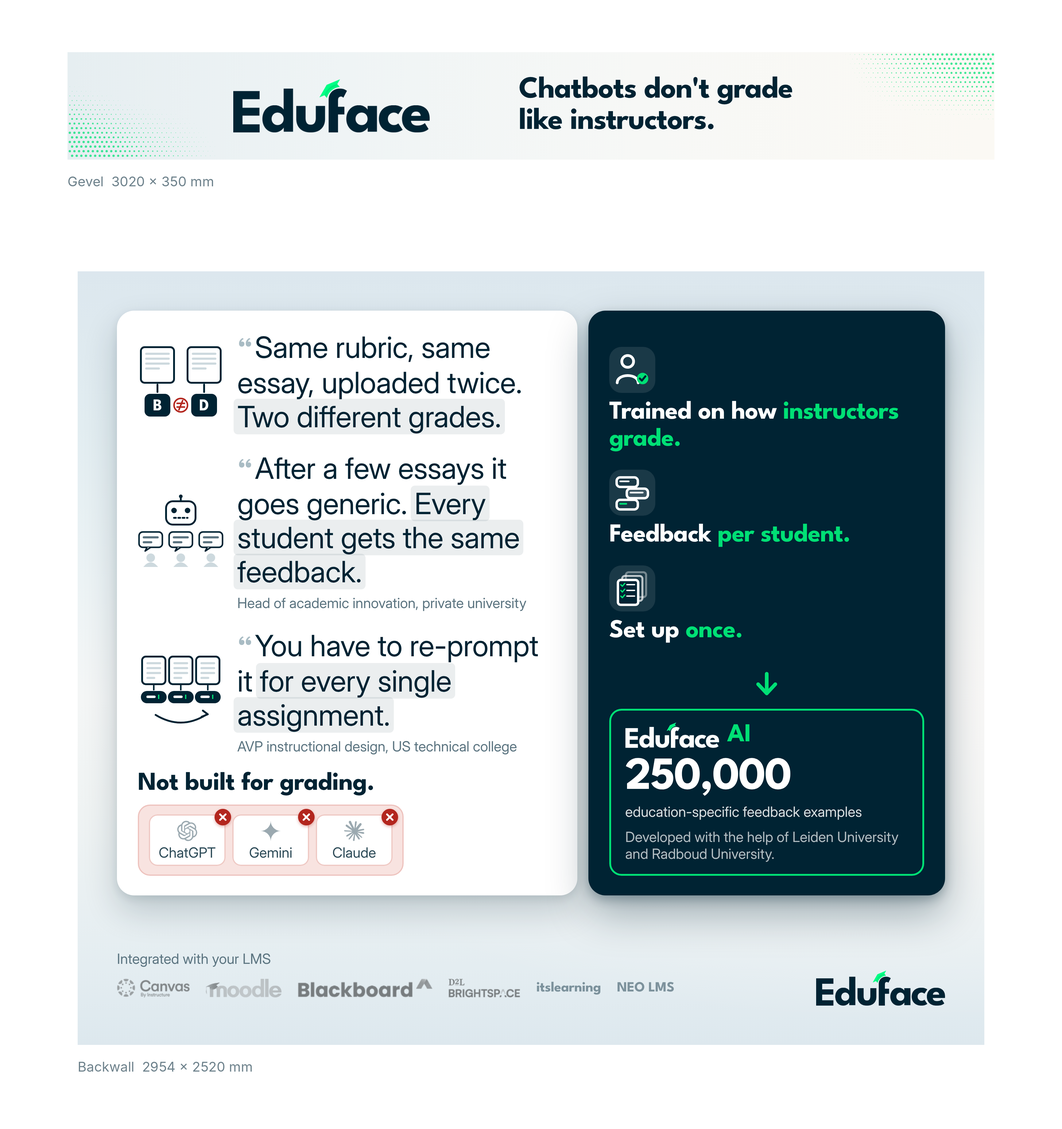
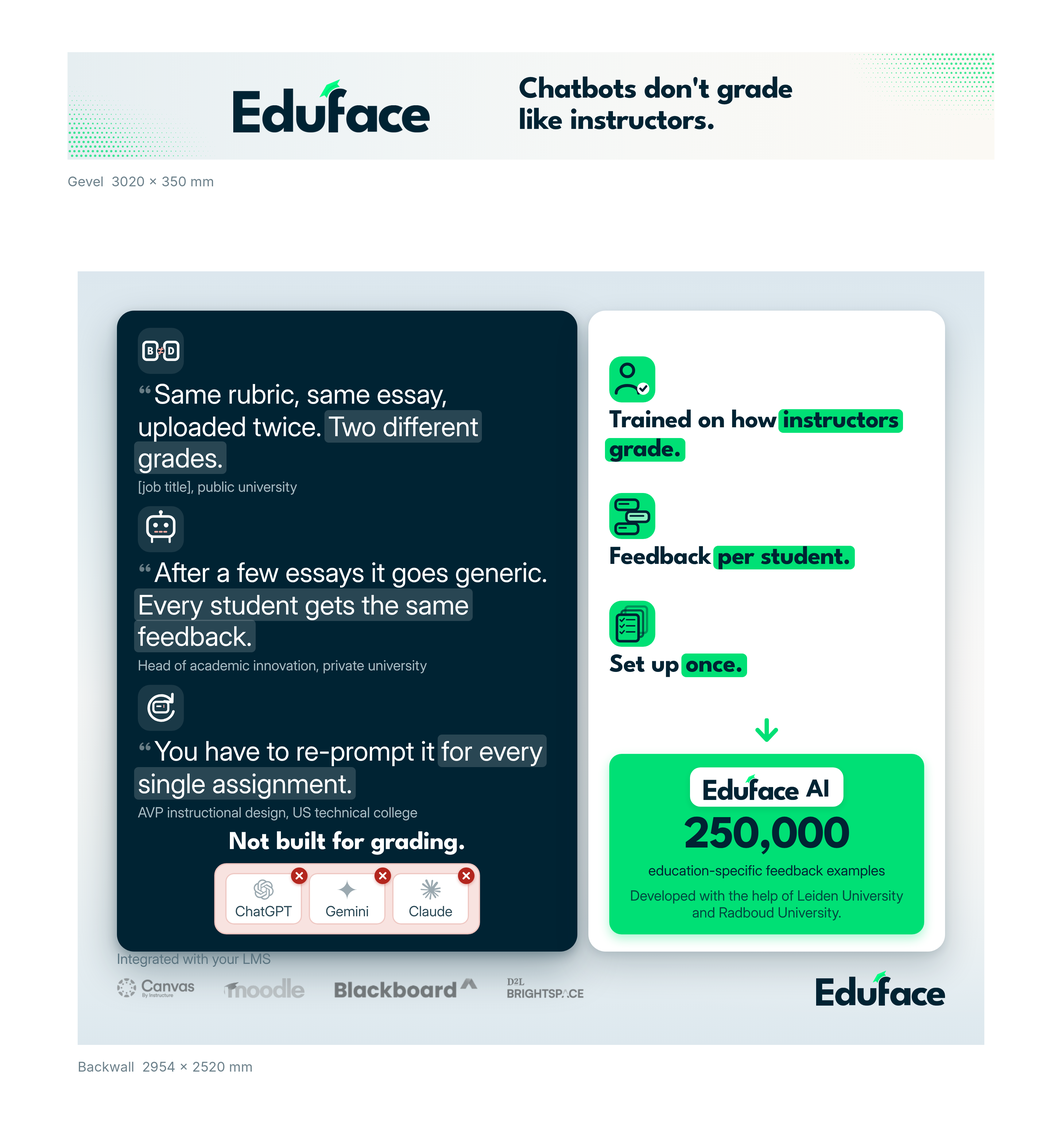
Backwall: donker links met iconen, wit en groen rechts, Eduface AI met 250.000; quote 1 uit public university
Claude-Session: https://claude.ai/code/session_011t24oRcD5DFuXzKigdVhtb

diff --git a/creatives/beurs-backwall/backwall.html b/creatives/beurs-backwall/backwall.html
@@ -5,7 +5,8 @@
 <title>Beurs backwall</title>
 <style>
   /* Canvas: 1 px = 1 mm. Wand 2954 x 2520 mm. De kop staat op de gevel (facade.html).
-     Lettersysteem: L 96 Inter (quotes) / M 84 League Spartan (koppen) / S 46 Inter (bronnen, labels) / XL 150 Spartan (alleen het getal). */
+     Links donker (het probleem), rechts wit met veel groen (de oplossing).
+     Lettersysteem: L 88 Inter (quotes) / M 84 League Spartan (koppen) / S 46 Inter (bronnen, labels) / XL 150 Spartan (alleen het getal). */
   @font-face { font-family: "League Spartan"; font-weight: 700; src: url("../../Design/Merk/fonts/LeagueSpartan-Bold.ttf"); }
   @font-face { font-family: "Inter"; font-weight: 400; src: url("../../Design/Merk/fonts/Inter-Regular.ttf"); }
   :root { --w: 2954px; --h: 2520px; --navy: #002333; --gd: #007b54; --g: #00e075; --i7: #2c4a57; --i5: #5b7480; --i3: #a9bcc4; --i2: #cdd9de; --i50: #f3f7f8; --red: #b3261e; }
@@ -20,43 +21,43 @@
   .logo { position: absolute; right: 128px; bottom: 128px; width: 420px; height: auto; }
   .row { position: absolute; left: 128px; top: 128px; width: 2698px; display: flex; gap: 36px; align-items: stretch; }
 
-  /* links: quotes met beeld. Rood alleen, en licht, in het kleine tool-vak. */
-  .q { width: 1500px; background: #fff; border-radius: 56px; padding: 64px 68px; display: flex; flex-direction: column; justify-content: space-between; gap: 52px;
-       box-shadow: 0 10px 28px rgba(0,35,51,.10), 0 50px 110px rgba(0,35,51,.20); }
-  .qs { display: flex; flex-direction: column; gap: 56px; }
-  .qone { display: flex; gap: 44px; align-items: center; }
-  .vis { flex: none; width: 280px; height: 240px; }
-  .qt { font: 400 96px/1.16 Inter; color: var(--navy); letter-spacing: -.005em; }
-  .qt .qm { font: 700 96px/1 "League Spartan"; color: var(--i3); margin-right: 8px; }
-  .qt mark { background: rgba(0,35,51,.08); color: inherit; padding: 0 12px; margin: 0 -12px; border-radius: 14px; -webkit-box-decoration-break: clone; box-decoration-break: clone; }
-  .who { font: 400 46px/1.2 Inter; color: var(--i5); margin-top: 18px; }
+  /* links: donker. Icoon boven, quote eronder, precies zoals rechts. */
+  .q { width: 1500px; background: var(--navy); color: #fff; border-radius: 56px; padding: 56px 68px; display: flex; flex-direction: column; justify-content: space-between; gap: 30px;
+       box-shadow: 0 14px 34px rgba(0,35,51,.28), 0 60px 130px rgba(0,35,51,.34); }
+  .qs { display: flex; flex-direction: column; gap: 36px; }
+  .it { width: 150px; height: 150px; border-radius: 40px; display: flex; align-items: center; justify-content: center; margin-bottom: 14px; }
+  .q .it { background: rgba(255,255,255,.1); }
+  .qt { font: 400 88px/1.16 Inter; color: #fff; letter-spacing: -.005em; }
+  .qt .qm { font: 700 88px/1 "League Spartan"; color: rgba(255,255,255,.4); margin-right: 8px; }
+  .qt mark { background: rgba(255,255,255,.16); color: inherit; padding: 0 12px; margin: 0 -12px; border-radius: 14px; -webkit-box-decoration-break: clone; box-decoration-break: clone; }
+  .who { font: 400 46px/1.2 Inter; color: var(--i3); margin-top: 16px; }
 
-  .tools .lab { font: 700 84px/1 "League Spartan"; letter-spacing: -.01em; color: var(--navy); margin-bottom: 26px; }
+  .tools { text-align: center; }
+  .tools .lab { font: 700 84px/1 "League Spartan"; letter-spacing: -.01em; color: #fff; margin-bottom: 24px; }
   .redbox { display: inline-flex; gap: 22px; background: #f8e3e0; border: 4px solid #eec3be; border-radius: 40px; padding: 28px 32px; }
   .tl { position: relative; width: 250px; height: 168px; border-radius: 28px; background: #fff; box-shadow: inset 0 0 0 4px #efc9c4;
         display: flex; flex-direction: column; align-items: center; justify-content: center; gap: 14px; font: 400 46px/1 Inter; color: var(--i7); }
   .tl img { width: 66px; height: 66px; opacity: .85; }
   .x { position: absolute; top: -18px; right: -18px; width: 54px; height: 54px; border-radius: 50%; background: var(--red); box-shadow: 0 4px 10px rgba(179,38,30,.35); }
 
-  /* rechts: Eduface. Icoon boven, tekst eronder. */
-  .e { width: 1162px; background: var(--navy); color: #fff; border-radius: 56px; padding: 64px 68px; display: flex; flex-direction: column; gap: 36px;
-       box-shadow: 0 14px 34px rgba(0,35,51,.28), 0 60px 130px rgba(0,35,51,.34); }
+  /* rechts: wit, veel groen. */
+  .e { width: 1162px; background: #fff; color: var(--navy); border-radius: 56px; padding: 56px 68px; display: flex; flex-direction: column; gap: 32px;
+       box-shadow: 0 10px 28px rgba(0,35,51,.10), 0 50px 110px rgba(0,35,51,.20); }
   .es { flex: 1; display: flex; flex-direction: column; justify-content: space-evenly; }
-  .eb .it { width: 150px; height: 150px; border-radius: 40px; background: rgba(255,255,255,.1); display: flex; align-items: center; justify-content: center; margin-bottom: 20px; }
-  .eh { font: 700 84px/1.04 "League Spartan"; letter-spacing: -.015em; }
-  .eh span { color: var(--g); }
-  .arrow { align-self: center; margin: 0; }
-  .own { margin-top: auto; border-radius: 40px; box-shadow: inset 0 0 0 6px var(--g); padding: 44px 52px; }
-  .own .top { display: flex; align-items: center; gap: 26px; }
+  .e .it { background: var(--g); }
+  .eh { font: 700 84px/1.12 "League Spartan"; letter-spacing: -.015em; }
+  .eh span { background: var(--g); padding: 0 14px; margin: 0 -14px; border-radius: 16px; -webkit-box-decoration-break: clone; box-decoration-break: clone; }
+  .arrow { align-self: center; }
+  .own { margin-top: auto; border-radius: 40px; background: var(--g); padding: 44px 52px; text-align: center; box-shadow: 0 14px 34px rgba(0,224,117,.32); }
+  .own .top { display: inline-flex; align-items: flex-end; justify-content: center; gap: 24px; background: #fff; border-radius: 34px; padding: 22px 44px 22px; box-shadow: 0 8px 20px rgba(0,35,51,.12); }
   .own .top img { height: 84px; width: auto; }
-  .own .top .ai { font: 700 84px/1 "League Spartan"; color: var(--g); letter-spacing: -.01em; }
-  .own .n { font: 700 150px/1 "League Spartan"; letter-spacing: -.025em; margin-top: 22px; }
-  .own .l { font: 400 46px/1.2 Inter; color: rgba(255,255,255,.85); margin-top: 8px; }
-  .own .d { font: 400 46px/1.2 Inter; color: rgba(255,255,255,.7); margin-top: 26px; }
+  .own .top .ai { font: 700 84px/.74 "League Spartan"; color: var(--navy); letter-spacing: -.01em; padding-bottom: 0; }
+  .own .n { font: 700 150px/1 "League Spartan"; letter-spacing: -.025em; margin-top: 22px; color: var(--navy); }
+  .own .l { font: 400 46px/1.2 Inter; color: var(--navy); margin-top: 8px; }
+  .own .d { font: 400 46px/1.2 Inter; color: rgba(0,35,51,.8); margin-top: 26px; }
 
-  .lms { position: absolute; left: 128px; top: 2278px; height: 114px; display: flex; align-items: center; gap: 52px; }
-  .lms img { height: 62px; width: auto; filter: grayscale(1) contrast(.9); opacity: .5; }
-  .lms .wm { font: 700 46px/1 "League Spartan"; letter-spacing: -.01em; color: var(--i5); opacity: .75; white-space: nowrap; }
+  .lms { position: absolute; left: 128px; top: 2278px; height: 114px; display: flex; align-items: center; gap: 96px; }
+  .lms img { height: 66px; width: auto; filter: grayscale(1) contrast(.9); opacity: .5; }
   .lms .lab { position: absolute; left: 0; top: -62px; font: 400 46px/1 Inter; color: var(--i5); white-space: nowrap; }
 </style>
 </head>
@@ -67,52 +68,48 @@
   </div>
 
 <script>
-const N='#002333', G='#00e075', W='#fff', I2='#cdd9de', I5='#5b7480', RED='#b3261e';
+const N='#002333', G='#00e075', W='#fff', PINK='#f1a9a1';
 const L=(f)=>`assets/logos/${f}.svg`;
-const sv=(inner,s=120)=>`<svg width="${s}" height="${s}" viewBox="0 0 400 400">${inner}</svg>`;
+const sv=(inner,s=128)=>`<svg width="${s}" height="${s}" viewBox="0 0 400 400">${inner}</svg>`;
 
-/* ---- beelden bij de quotes (280 x 240) ---- */
-const lines=(x,y,w,n,c=I2)=>Array.from({length:n},(_,i)=>`<rect x="${x}" y="${y+i*16}" width="${i===n-1?w*.6:w}" height="7" rx="3.5" fill="${c}"/>`).join('');
-const sheet=(x,y,w,h)=>`<rect x="${x}" y="${y}" width="${w}" height="${h}" rx="12" fill="#fff" stroke="${N}" stroke-width="6"/>${lines(x+14,y+18,w-28,4)}`;
-// 1. Dezelfde opdracht twee keer, twee verschillende cijfers
-const vis1=`<svg class="vis" viewBox="0 0 280 240">${sheet(10,6,108,116)}${sheet(162,6,108,116)}
-  <path d="M64,128 V152" stroke="${N}" stroke-width="6" stroke-linecap="round"/><path d="M216,128 V152" stroke="${N}" stroke-width="6" stroke-linecap="round"/>
-  <rect x="22" y="158" width="84" height="74" rx="18" fill="${N}"/><text x="64" y="212" text-anchor="middle" font-family="League Spartan" font-weight="700" font-size="54" fill="#fff">B</text>
-  <rect x="174" y="158" width="84" height="74" rx="18" fill="${N}"/><text x="216" y="212" text-anchor="middle" font-family="League Spartan" font-weight="700" font-size="54" fill="#fff">D</text>
-  <circle cx="140" cy="195" r="22" fill="#fff" stroke="${RED}" stroke-width="5"/><path d="M128,189 H152 M128,201 H152 M146,180 L134,210" stroke="${RED}" stroke-width="5" stroke-linecap="round"/></svg>`;
-// 2. Robot: dezelfde generieke feedback voor iedere student
-const bub=(x)=>`<rect x="${x}" y="122" width="76" height="50" rx="12" fill="#fff" stroke="${N}" stroke-width="5"/>${lines(x+12,136,52,2,I5)}<path d="M${x+26},172 l-6,12 l18,-12" fill="#fff" stroke="${N}" stroke-width="5" stroke-linejoin="round"/><circle cx="${x+38}" cy="206" r="14" fill="${I2}"/><path d="M${x+14},236 q24,-30 48,0" fill="${I2}"/>`;
-const vis2=`<svg class="vis" viewBox="0 0 280 240"><line x1="140" y1="4" x2="140" y2="20" stroke="${N}" stroke-width="6" stroke-linecap="round"/><circle cx="140" cy="6" r="6" fill="${N}"/>
-  <rect x="92" y="22" width="96" height="76" rx="22" fill="#fff" stroke="${N}" stroke-width="6"/><circle cx="118" cy="52" r="9" fill="${N}"/><circle cx="162" cy="52" r="9" fill="${N}"/><path d="M118,76 H162" stroke="${N}" stroke-width="6" stroke-linecap="round" stroke-dasharray="6 8"/>
-  ${bub(4)}${bub(102)}${bub(200)}</svg>`;
-// 3. Elke opdracht opnieuw promoten
-const pr=(x)=>`${sheet(x,6,76,90)}<path d="M${x+38},100 V114" stroke="${N}" stroke-width="5" stroke-linecap="round"/><rect x="${x-4}" y="118" width="84" height="40" rx="20" fill="${N}"/><rect x="${x+14}" y="133" width="30" height="8" rx="4" fill="${W}"/><rect x="${x+52}" y="130" width="4" height="14" fill="${G}"/>`;
-const vis3=`<svg class="vis" viewBox="0 0 280 240">${pr(14)}${pr(102)}${pr(190)}
-  <path d="M58,196 q82,50 164,0" fill="none" stroke="${N}" stroke-width="6" stroke-linecap="round"/><path d="M212,182 l16,12 l-20,8" fill="none" stroke="${N}" stroke-width="6" stroke-linecap="round" stroke-linejoin="round"/></svg>`;
+/* ---- iconen links (wit op donker, lichtrode accenten): het probleem ---- */
+// 1. twee verschillende cijfers voor dezelfde opdracht
+const icGrades=sv(`<rect x="24" y="110" width="140" height="180" rx="34" fill="none" stroke="${W}" stroke-width="26"/><text x="94" y="236" text-anchor="middle" font-family="League Spartan" font-weight="700" font-size="116" fill="${W}">B</text>
+  <rect x="236" y="110" width="140" height="180" rx="34" fill="none" stroke="${W}" stroke-width="26"/><text x="306" y="236" text-anchor="middle" font-family="League Spartan" font-weight="700" font-size="116" fill="${W}">D</text>
+  <circle cx="200" cy="200" r="38" fill="${N}"/><path d="M178,184 H222 M178,216 H222" stroke="${PINK}" stroke-width="13" stroke-linecap="round"/><path d="M212,166 L188,234" stroke="${PINK}" stroke-width="13" stroke-linecap="round"/>`);
+// 2. robot: generiek, dezelfde feedback
+const icRobot=sv(`<line x1="200" y1="20" x2="200" y2="70" stroke="${W}" stroke-width="22" stroke-linecap="round"/><circle cx="200" cy="26" r="20" fill="${W}"/>
+  <rect x="64" y="70" width="272" height="206" rx="60" fill="none" stroke="${W}" stroke-width="26"/><circle cx="146" cy="158" r="24" fill="${W}"/><circle cx="254" cy="158" r="24" fill="${W}"/><path d="M142,226 H258" stroke="${PINK}" stroke-width="18" stroke-linecap="round" stroke-dasharray="22 24"/>
+  <path d="M110,276 V330 M290,276 V330" stroke="${W}" stroke-width="22" stroke-linecap="round"/>`);
+// 3. elke keer opnieuw promoten
+const icRepeat=sv(`<path d="M312,132 A128,128 0 1 0 328,236" fill="none" stroke="${W}" stroke-width="26" stroke-linecap="round"/><polyline points="318,60 316,142 236,134" fill="none" stroke="${W}" stroke-width="26" stroke-linecap="round" stroke-linejoin="round"/>
+  <rect x="124" y="138" width="152" height="108" rx="30" fill="none" stroke="${W}" stroke-width="22"/><rect x="154" y="176" width="52" height="16" rx="8" fill="${W}"/><rect x="226" y="168" width="10" height="32" fill="${PINK}"/>`);
+
+/* ---- iconen rechts (navy op groen): de oplossing ---- */
+const icTeacher=sv(`<circle cx="150" cy="108" r="64" fill="none" stroke="${N}" stroke-width="30"/><path d="M36,340 C36,236 264,236 264,340" fill="none" stroke="${N}" stroke-width="30" stroke-linecap="round"/><circle cx="312" cy="294" r="62" fill="${W}"/><polyline points="282,294 304,316 342,270" fill="none" stroke="${N}" stroke-width="22" stroke-linecap="round" stroke-linejoin="round"/>`);
+const icBubbles=sv(`<rect x="30" y="34" width="230" height="104" rx="38" fill="none" stroke="${N}" stroke-width="26"/><rect x="60" y="68" width="110" height="18" rx="9" fill="${N}"/><rect x="140" y="156" width="230" height="104" rx="38" fill="rgba(255,255,255,.55)" stroke="${N}" stroke-width="26"/><rect x="172" y="190" width="150" height="18" rx="9" fill="${N}"/><rect x="30" y="278" width="230" height="104" rx="38" fill="none" stroke="${N}" stroke-width="26"/><rect x="60" y="312" width="84" height="18" rx="9" fill="${N}"/>`);
+const icSheets=sv(`<rect x="130" y="24" width="220" height="270" rx="30" fill="none" stroke="${N}" stroke-width="22" opacity=".4"/><rect x="90" y="64" width="220" height="270" rx="30" fill="none" stroke="${N}" stroke-width="22" opacity=".7"/><rect x="44" y="108" width="220" height="270" rx="30" fill="${G}" stroke="${N}" stroke-width="26"/>${[160,222,284].map(y=>`<polyline points="76,${y} 92,${y+16} 118,${y-14}" fill="none" stroke="${N}" stroke-width="14" stroke-linecap="round" stroke-linejoin="round"/><rect x="134" y="${y-8}" width="98" height="14" rx="7" fill="${N}"/>`).join('')}`);
 
 /* ---- links ---- */
-const q=(vis,t,w)=>`<div class="qone">${vis}<div><div class="qt"><span class="qm">“</span>${t}</div>${w?`<div class="who">${w}</div>`:''}</div></div>`;
-const R1='Head of academic innovation, private university', R2='AVP instructional design, US technical college';
+const q=(ic,t,w)=>`<div class="qb"><div class="it">${ic}</div><div class="qt"><span class="qm">“</span>${t}</div>${w?`<div class="who">${w}</div>`:''}</div>`;
+const R0='[job title], public university', R1='Head of academic innovation, private university', R2='AVP instructional design, US technical college';
 const x=`<div class="x"><svg width="54" height="54" viewBox="0 0 54 54"><path d="M18,18 L36,36 M36,18 L18,36" stroke="#fff" stroke-width="6" stroke-linecap="round"/></svg></div>`;
 const tool=(img,name)=>`<div class="tl"><img src="${L(img)}">${name}${x}</div>`;
 const left=`<div class="q"><div class="qs">`+
-  q(vis1,'Same rubric, same essay, uploaded twice. <mark>Two different grades.</mark>','')+
-  q(vis2,'After a few essays it goes generic. <mark>Every student gets the same feedback.</mark>',R1)+
-  q(vis3,'You have to re-prompt it <mark>for every single assignment.</mark>',R2)+
+  q(icGrades,'Same rubric, same essay, uploaded twice. <mark>Two different grades.</mark>',R0)+
+  q(icRobot,'After a few essays it goes generic. <mark>Every student gets the same feedback.</mark>',R1)+
+  q(icRepeat,'You have to re-prompt it <mark>for every single assignment.</mark>',R2)+
   `</div><div class="tools"><div class="lab">Not built for grading.</div><div class="redbox">${tool('openai','ChatGPT')}${tool('googlegemini','Gemini')}${tool('claude','Claude')}</div></div></div>`;
 
 /* ---- rechts ---- */
-const icTeacher=sv(`<circle cx="150" cy="108" r="64" fill="none" stroke="${W}" stroke-width="30"/><path d="M36,340 C36,236 264,236 264,340" fill="none" stroke="${W}" stroke-width="30" stroke-linecap="round"/><circle cx="312" cy="294" r="62" fill="${G}"/><polyline points="282,294 304,316 342,270" fill="none" stroke="${N}" stroke-width="22" stroke-linecap="round" stroke-linejoin="round"/>`);
-const icBubbles=sv(`<rect x="30" y="34" width="230" height="104" rx="38" fill="none" stroke="${W}" stroke-width="26"/><rect x="60" y="68" width="110" height="18" rx="9" fill="${W}"/><rect x="140" y="156" width="230" height="104" rx="38" fill="rgba(255,255,255,.14)" stroke="${W}" stroke-width="26"/><rect x="172" y="190" width="150" height="18" rx="9" fill="${W}"/><rect x="30" y="278" width="230" height="104" rx="38" fill="none" stroke="${W}" stroke-width="26"/><rect x="60" y="312" width="84" height="18" rx="9" fill="${G}"/>`);
-const icSheets=sv(`<rect x="130" y="24" width="220" height="270" rx="30" fill="none" stroke="${W}" stroke-width="22" opacity=".4"/><rect x="90" y="64" width="220" height="270" rx="30" fill="none" stroke="${W}" stroke-width="22" opacity=".7"/><rect x="44" y="108" width="220" height="270" rx="30" fill="${N}" stroke="${W}" stroke-width="26"/>${[160,222,284].map(y=>`<polyline points="76,${y} 92,${y+16} 118,${y-14}" fill="none" stroke="${G}" stroke-width="14" stroke-linecap="round" stroke-linejoin="round"/><rect x="134" y="${y-8}" width="98" height="14" rx="7" fill="${W}"/>`).join('')}`);
 const EB=[{ic:icTeacher,h:'Trained on how <span>instructors grade.</span>'},{ic:icBubbles,h:'Feedback <span>per student.</span>'},{ic:icSheets,h:'Set up <span>once.</span>'}];
-const arrow=`<svg class="arrow" width="96" height="84" viewBox="0 0 96 84"><path d="M48,6 V62" stroke="${G}" stroke-width="12" stroke-linecap="round"/><polyline points="20,40 48,70 76,40" fill="none" stroke="${G}" stroke-width="12" stroke-linecap="round" stroke-linejoin="round"/></svg>`;
+const arrow=`<svg class="arrow" width="96" height="84" viewBox="0 0 96 84"><path d="M48,6 V62" stroke="${G}" stroke-width="14" stroke-linecap="round"/><polyline points="18,38 48,70 78,38" fill="none" stroke="${G}" stroke-width="14" stroke-linecap="round" stroke-linejoin="round"/></svg>`;
 const right=`<div class="e"><div class="es">`+EB.map(r=>`<div class="eb"><div class="it">${r.ic}</div><div class="eh">${r.h}</div></div>`).join('')+`</div>${arrow}
-  <div class="own"><div class="top"><img src="assets/logos/eduface-white.png"><div class="ai">AI</div></div>
+  <div class="own"><div class="top"><img src="../../Design/Merk/logos/logo_navy.png"><div class="ai">AI</div></div>
   <div class="n">250,000</div><div class="l">education-specific feedback examples</div>
   <div class="d">Developed with the help of Leiden University and Radboud University.</div></div></div>`;
 
-const lms=`<div class="lms"><div class="lab">Integrated with your LMS</div><img src="assets/logos/lms-canvas.png"><img src="assets/logos/lms-moodle.png"><img src="assets/logos/lms-blackboard.png"><img src="assets/logos/lms-brightspace.png"><div class="wm">itslearning</div><div class="wm">NEO LMS</div></div>`;
+const lms=`<div class="lms"><div class="lab">Integrated with your LMS</div><img src="assets/logos/lms-canvas.png"><img src="assets/logos/lms-moodle.png"><img src="assets/logos/lms-blackboard.png"><img src="assets/logos/lms-brightspace.png"></div>`;
 document.getElementById('layer-content').innerHTML = `<div class="row">${left}${right}</div>${lms}`;
 </script>
 </body>

diff --git a/creatives/beurs-backwall/backwall-beelden-bij-quotes-2026-11-25.html b/creatives/beurs-backwall/backwall-beelden-bij-quotes-2026-11-25.html
@@ -1,0 +1,119 @@
+<!doctype html>
+<html lang="en">
+<head>
+<meta charset="utf-8">
+<title>Beurs backwall</title>
+<style>
+  /* Canvas: 1 px = 1 mm. Wand 2954 x 2520 mm. De kop staat op de gevel (facade.html).
+     Lettersysteem: L 96 Inter (quotes) / M 84 League Spartan (koppen) / S 46 Inter (bronnen, labels) / XL 150 Spartan (alleen het getal). */
+  @font-face { font-family: "League Spartan"; font-weight: 700; src: url("../../Design/Merk/fonts/LeagueSpartan-Bold.ttf"); }
+  @font-face { font-family: "Inter"; font-weight: 400; src: url("../../Design/Merk/fonts/Inter-Regular.ttf"); }
+  :root { --w: 2954px; --h: 2520px; --navy: #002333; --gd: #007b54; --g: #00e075; --i7: #2c4a57; --i5: #5b7480; --i3: #a9bcc4; --i2: #cdd9de; --i50: #f3f7f8; --red: #b3261e; }
+  * { margin: 0; box-sizing: border-box; }
+  html, body { width: var(--w); height: var(--h); }
+  .wall {
+    position: relative; width: var(--w); height: var(--h); overflow: hidden; color: var(--navy);
+    background:
+      radial-gradient(ellipse 80% 45% at 90% 52%, #f9f8f7 0%, rgba(249,248,247,0) 100%),
+      linear-gradient(180deg, #dce7ee 0%, #e2edf1 20%, #ecf3f5 40%, #f4f6f6 55%, #eff3f3 70%, #e4edf1 90%, #dde8ee 100%);
+  }
+  .logo { position: absolute; right: 128px; bottom: 128px; width: 420px; height: auto; }
+  .row { position: absolute; left: 128px; top: 128px; width: 2698px; display: flex; gap: 36px; align-items: stretch; }
+
+  /* links: quotes met beeld. Rood alleen, en licht, in het kleine tool-vak. */
+  .q { width: 1500px; background: #fff; border-radius: 56px; padding: 64px 68px; display: flex; flex-direction: column; justify-content: space-between; gap: 52px;
+       box-shadow: 0 10px 28px rgba(0,35,51,.10), 0 50px 110px rgba(0,35,51,.20); }
+  .qs { display: flex; flex-direction: column; gap: 56px; }
+  .qone { display: flex; gap: 44px; align-items: center; }
+  .vis { flex: none; width: 280px; height: 240px; }
+  .qt { font: 400 96px/1.16 Inter; color: var(--navy); letter-spacing: -.005em; }
+  .qt .qm { font: 700 96px/1 "League Spartan"; color: var(--i3); margin-right: 8px; }
+  .qt mark { background: rgba(0,35,51,.08); color: inherit; padding: 0 12px; margin: 0 -12px; border-radius: 14px; -webkit-box-decoration-break: clone; box-decoration-break: clone; }
+  .who { font: 400 46px/1.2 Inter; color: var(--i5); margin-top: 18px; }
+
+  .tools .lab { font: 700 84px/1 "League Spartan"; letter-spacing: -.01em; color: var(--navy); margin-bottom: 26px; }
+  .redbox { display: inline-flex; gap: 22px; background: #f8e3e0; border: 4px solid #eec3be; border-radius: 40px; padding: 28px 32px; }
+  .tl { position: relative; width: 250px; height: 168px; border-radius: 28px; background: #fff; box-shadow: inset 0 0 0 4px #efc9c4;
+        display: flex; flex-direction: column; align-items: center; justify-content: center; gap: 14px; font: 400 46px/1 Inter; color: var(--i7); }
+  .tl img { width: 66px; height: 66px; opacity: .85; }
+  .x { position: absolute; top: -18px; right: -18px; width: 54px; height: 54px; border-radius: 50%; background: var(--red); box-shadow: 0 4px 10px rgba(179,38,30,.35); }
+
+  /* rechts: Eduface. Icoon boven, tekst eronder. */
+  .e { width: 1162px; background: var(--navy); color: #fff; border-radius: 56px; padding: 64px 68px; display: flex; flex-direction: column; gap: 36px;
+       box-shadow: 0 14px 34px rgba(0,35,51,.28), 0 60px 130px rgba(0,35,51,.34); }
+  .es { flex: 1; display: flex; flex-direction: column; justify-content: space-evenly; }
+  .eb .it { width: 150px; height: 150px; border-radius: 40px; background: rgba(255,255,255,.1); display: flex; align-items: center; justify-content: center; margin-bottom: 20px; }
+  .eh { font: 700 84px/1.04 "League Spartan"; letter-spacing: -.015em; }
+  .eh span { color: var(--g); }
+  .arrow { align-self: center; margin: 0; }
+  .own { margin-top: auto; border-radius: 40px; box-shadow: inset 0 0 0 6px var(--g); padding: 44px 52px; }
+  .own .top { display: flex; align-items: center; gap: 26px; }
+  .own .top img { height: 84px; width: auto; }
+  .own .top .ai { font: 700 84px/1 "League Spartan"; color: var(--g); letter-spacing: -.01em; }
+  .own .n { font: 700 150px/1 "League Spartan"; letter-spacing: -.025em; margin-top: 22px; }
+  .own .l { font: 400 46px/1.2 Inter; color: rgba(255,255,255,.85); margin-top: 8px; }
+  .own .d { font: 400 46px/1.2 Inter; color: rgba(255,255,255,.7); margin-top: 26px; }
+
+  .lms { position: absolute; left: 128px; top: 2278px; height: 114px; display: flex; align-items: center; gap: 52px; }
+  .lms img { height: 62px; width: auto; filter: grayscale(1) contrast(.9); opacity: .5; }
+  .lms .wm { font: 700 46px/1 "League Spartan"; letter-spacing: -.01em; color: var(--i5); opacity: .75; white-space: nowrap; }
+  .lms .lab { position: absolute; left: 0; top: -62px; font: 400 46px/1 Inter; color: var(--i5); white-space: nowrap; }
+</style>
+</head>
+<body>
+  <div class="wall" id="wall">
+    <div id="layer-content"></div>
+    <img class="logo" src="../../Design/Merk/logos/logo_navy.png" alt="Eduface">
+  </div>
+
+<script>
+const N='#002333', G='#00e075', W='#fff', I2='#cdd9de', I5='#5b7480', RED='#b3261e';
+const L=(f)=>`assets/logos/${f}.svg`;
+const sv=(inner,s=120)=>`<svg width="${s}" height="${s}" viewBox="0 0 400 400">${inner}</svg>`;
+
+/* ---- beelden bij de quotes (280 x 240) ---- */
+const lines=(x,y,w,n,c=I2)=>Array.from({length:n},(_,i)=>`<rect x="${x}" y="${y+i*16}" width="${i===n-1?w*.6:w}" height="7" rx="3.5" fill="${c}"/>`).join('');
+const sheet=(x,y,w,h)=>`<rect x="${x}" y="${y}" width="${w}" height="${h}" rx="12" fill="#fff" stroke="${N}" stroke-width="6"/>${lines(x+14,y+18,w-28,4)}`;
+// 1. Dezelfde opdracht twee keer, twee verschillende cijfers
+const vis1=`<svg class="vis" viewBox="0 0 280 240">${sheet(10,6,108,116)}${sheet(162,6,108,116)}
+  <path d="M64,128 V152" stroke="${N}" stroke-width="6" stroke-linecap="round"/><path d="M216,128 V152" stroke="${N}" stroke-width="6" stroke-linecap="round"/>
+  <rect x="22" y="158" width="84" height="74" rx="18" fill="${N}"/><text x="64" y="212" text-anchor="middle" font-family="League Spartan" font-weight="700" font-size="54" fill="#fff">B</text>
+  <rect x="174" y="158" width="84" height="74" rx="18" fill="${N}"/><text x="216" y="212" text-anchor="middle" font-family="League Spartan" font-weight="700" font-size="54" fill="#fff">D</text>
+  <circle cx="140" cy="195" r="22" fill="#fff" stroke="${RED}" stroke-width="5"/><path d="M128,189 H152 M128,201 H152 M146,180 L134,210" stroke="${RED}" stroke-width="5" stroke-linecap="round"/></svg>`;
+// 2. Robot: dezelfde generieke feedback voor iedere student
+const bub=(x)=>`<rect x="${x}" y="122" width="76" height="50" rx="12" fill="#fff" stroke="${N}" stroke-width="5"/>${lines(x+12,136,52,2,I5)}<path d="M${x+26},172 l-6,12 l18,-12" fill="#fff" stroke="${N}" stroke-width="5" stroke-linejoin="round"/><circle cx="${x+38}" cy="206" r="14" fill="${I2}"/><path d="M${x+14},236 q24,-30 48,0" fill="${I2}"/>`;
+const vis2=`<svg class="vis" viewBox="0 0 280 240"><line x1="140" y1="4" x2="140" y2="20" stroke="${N}" stroke-width="6" stroke-linecap="round"/><circle cx="140" cy="6" r="6" fill="${N}"/>
+  <rect x="92" y="22" width="96" height="76" rx="22" fill="#fff" stroke="${N}" stroke-width="6"/><circle cx="118" cy="52" r="9" fill="${N}"/><circle cx="162" cy="52" r="9" fill="${N}"/><path d="M118,76 H162" stroke="${N}" stroke-width="6" stroke-linecap="round" stroke-dasharray="6 8"/>
+  ${bub(4)}${bub(102)}${bub(200)}</svg>`;
+// 3. Elke opdracht opnieuw promoten
+const pr=(x)=>`${sheet(x,6,76,90)}<path d="M${x+38},100 V114" stroke="${N}" stroke-width="5" stroke-linecap="round"/><rect x="${x-4}" y="118" width="84" height="40" rx="20" fill="${N}"/><rect x="${x+14}" y="133" width="30" height="8" rx="4" fill="${W}"/><rect x="${x+52}" y="130" width="4" height="14" fill="${G}"/>`;
+const vis3=`<svg class="vis" viewBox="0 0 280 240">${pr(14)}${pr(102)}${pr(190)}
+  <path d="M58,196 q82,50 164,0" fill="none" stroke="${N}" stroke-width="6" stroke-linecap="round"/><path d="M212,182 l16,12 l-20,8" fill="none" stroke="${N}" stroke-width="6" stroke-linecap="round" stroke-linejoin="round"/></svg>`;
+
+/* ---- links ---- */
+const q=(vis,t,w)=>`<div class="qone">${vis}<div><div class="qt"><span class="qm">“</span>${t}</div>${w?`<div class="who">${w}</div>`:''}</div></div>`;
+const R1='Head of academic innovation, private university', R2='AVP instructional design, US technical college';
+const x=`<div class="x"><svg width="54" height="54" viewBox="0 0 54 54"><path d="M18,18 L36,36 M36,18 L18,36" stroke="#fff" stroke-width="6" stroke-linecap="round"/></svg></div>`;
+const tool=(img,name)=>`<div class="tl"><img src="${L(img)}">${name}${x}</div>`;
+const left=`<div class="q"><div class="qs">`+
+  q(vis1,'Same rubric, same essay, uploaded twice. <mark>Two different grades.</mark>','')+
+  q(vis2,'After a few essays it goes generic. <mark>Every student gets the same feedback.</mark>',R1)+
+  q(vis3,'You have to re-prompt it <mark>for every single assignment.</mark>',R2)+
+  `</div><div class="tools"><div class="lab">Not built for grading.</div><div class="redbox">${tool('openai','ChatGPT')}${tool('googlegemini','Gemini')}${tool('claude','Claude')}</div></div></div>`;
+
+/* ---- rechts ---- */
+const icTeacher=sv(`<circle cx="150" cy="108" r="64" fill="none" stroke="${W}" stroke-width="30"/><path d="M36,340 C36,236 264,236 264,340" fill="none" stroke="${W}" stroke-width="30" stroke-linecap="round"/><circle cx="312" cy="294" r="62" fill="${G}"/><polyline points="282,294 304,316 342,270" fill="none" stroke="${N}" stroke-width="22" stroke-linecap="round" stroke-linejoin="round"/>`);
+const icBubbles=sv(`<rect x="30" y="34" width="230" height="104" rx="38" fill="none" stroke="${W}" stroke-width="26"/><rect x="60" y="68" width="110" height="18" rx="9" fill="${W}"/><rect x="140" y="156" width="230" height="104" rx="38" fill="rgba(255,255,255,.14)" stroke="${W}" stroke-width="26"/><rect x="172" y="190" width="150" height="18" rx="9" fill="${W}"/><rect x="30" y="278" width="230" height="104" rx="38" fill="none" stroke="${W}" stroke-width="26"/><rect x="60" y="312" width="84" height="18" rx="9" fill="${G}"/>`);
+const icSheets=sv(`<rect x="130" y="24" width="220" height="270" rx="30" fill="none" stroke="${W}" stroke-width="22" opacity=".4"/><rect x="90" y="64" width="220" height="270" rx="30" fill="none" stroke="${W}" stroke-width="22" opacity=".7"/><rect x="44" y="108" width="220" height="270" rx="30" fill="${N}" stroke="${W}" stroke-width="26"/>${[160,222,284].map(y=>`<polyline points="76,${y} 92,${y+16} 118,${y-14}" fill="none" stroke="${G}" stroke-width="14" stroke-linecap="round" stroke-linejoin="round"/><rect x="134" y="${y-8}" width="98" height="14" rx="7" fill="${W}"/>`).join('')}`);
+const EB=[{ic:icTeacher,h:'Trained on how <span>instructors grade.</span>'},{ic:icBubbles,h:'Feedback <span>per student.</span>'},{ic:icSheets,h:'Set up <span>once.</span>'}];
+const arrow=`<svg class="arrow" width="96" height="84" viewBox="0 0 96 84"><path d="M48,6 V62" stroke="${G}" stroke-width="12" stroke-linecap="round"/><polyline points="20,40 48,70 76,40" fill="none" stroke="${G}" stroke-width="12" stroke-linecap="round" stroke-linejoin="round"/></svg>`;
+const right=`<div class="e"><div class="es">`+EB.map(r=>`<div class="eb"><div class="it">${r.ic}</div><div class="eh">${r.h}</div></div>`).join('')+`</div>${arrow}
+  <div class="own"><div class="top"><img src="assets/logos/eduface-white.png"><div class="ai">AI</div></div>
+  <div class="n">250,000</div><div class="l">education-specific feedback examples</div>
+  <div class="d">Developed with the help of Leiden University and Radboud University.</div></div></div>`;
+
+const lms=`<div class="lms"><div class="lab">Integrated with your LMS</div><img src="assets/logos/lms-canvas.png"><img src="assets/logos/lms-moodle.png"><img src="assets/logos/lms-blackboard.png"><img src="assets/logos/lms-brightspace.png"><div class="wm">itslearning</div><div class="wm">NEO LMS</div></div>`;
+document.getElementById('layer-content').innerHTML = `<div class="row">${left}${right}</div>${lms}`;
+</script>
+</body>
+</html>

diff --git a/Context/open-vragen.md b/Context/open-vragen.md
@@ -35,7 +35,7 @@ De enige plek waar openstaande vragen aan Dante staan. Een vraag die hier staat 
 | V12 | Continuïteit van het bedrijf zelf (financiering, team, exit- of escrowregeling) en het aantal getekende verwerkersovereenkomsten met Nederlandse instellingen. | Zelfde vragenlijst, vraag 9 en 12. | 02-10-2026 |
 | V15 | **Mogen de klantquotes (functie anoniem, zonder land) op de publieke beurswand?** Gaat om drie quotes uit de case study van 25-11-2026: Head of academic innovation (private university) twee keer, en AVP instructional design (US technical college) over ChatGPT-agents. | De wand toont de quotes **licht bewerkt voor correct Engels** (25-11-2026): leg de bewerkte versie aan hen voor, niet het origineel. Dante vroeg (25-11-2026) om een quote aan een "public university" en een andere functietitel te geven, zodat niet alle drie hetzelfde zijn. Dat is niet gedaan: het zijn echte bronnen en de herkomst mag niet veranderen. **Heb je een echte derde quote, bijvoorbeeld van de director of education in NL of van een public university?** Een klant citeren op een publieke wand vraagt toestemming, ook anoniem, want de functie plus het type instelling is herleidbaar. |  25-11-2026 |
 | V16 | **Mag "the only" erbij, en is "twee keer dezelfde opdracht, twee keer een ander cijfer" bij ChatGPT, Gemini en Claude een eigen test (wanneer, hoeveel runs)?** Beide staan nu niet op de wand. De wand houdt zich aan wat de case study onderbouwt. | "The only" is een superlatief die een bezoeker kan weerleggen. De consistentie-claim heeft een bron nodig voor hij erbij kan. | 25-11-2026 |
-| V17 | **Van wie is de nieuwe eerste quote?** "Such that you would upload the same rubric and the same writing assignment, and you would receive different grades." (Dante, 25-11-2026) Er staat nu geen bronregel onder. | Een quote op een publieke wand zonder functie en type instelling leest als verzonnen, en de twee andere hebben er wel een. Welke functie en welk type instelling, en weet die persoon ervan (zie V15)? | 25-11-2026 |
+| V17 | **Wat is de functietitel bij de eerste quote?** "Same rubric, same essay, uploaded twice. Two different grades." Dante (25-11-2026): het komt van een **public university**. De functietitel staat op de wand nog als `[job title]`. | Een titel die ik zelf kies is een verzonnen bronvermelding op een publieke wand. Welke functie had die persoon echt, en weet die persoon ervan (zie V15)? | 25-11-2026 |
 
 ## Later, geen vraag maar een richting
 
